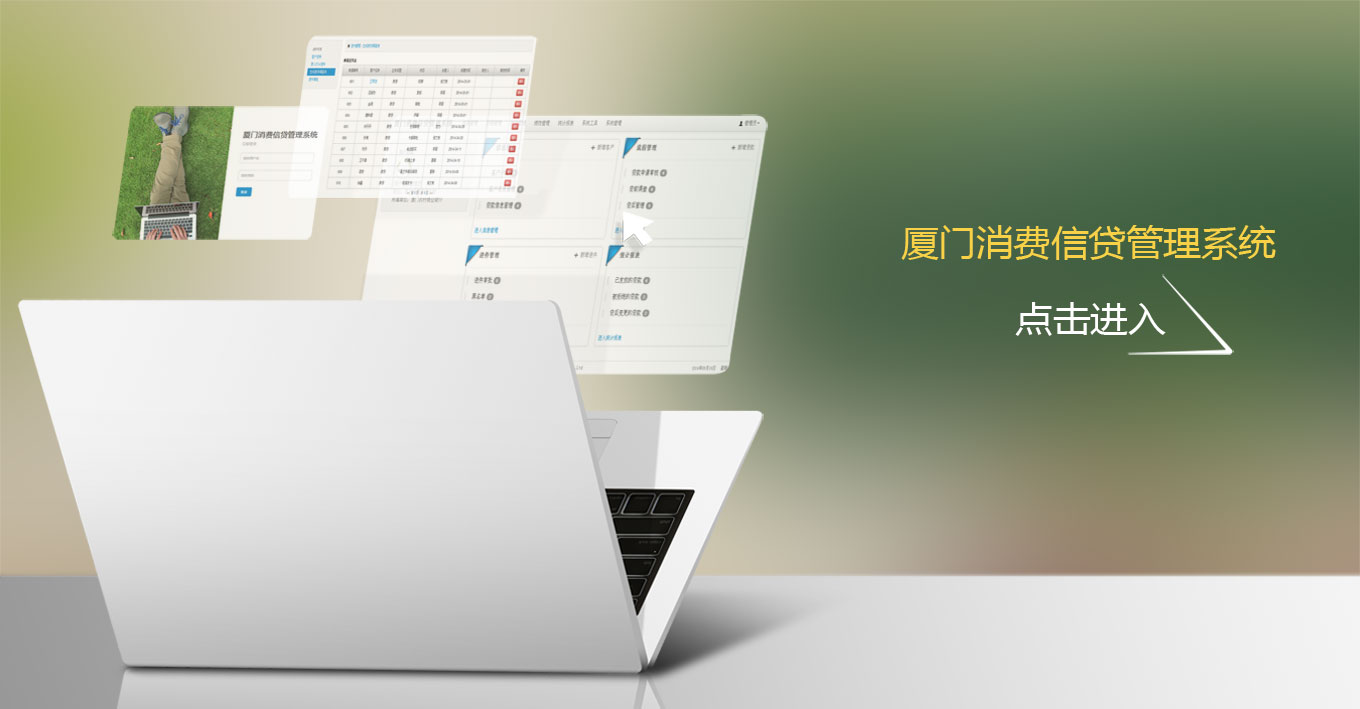
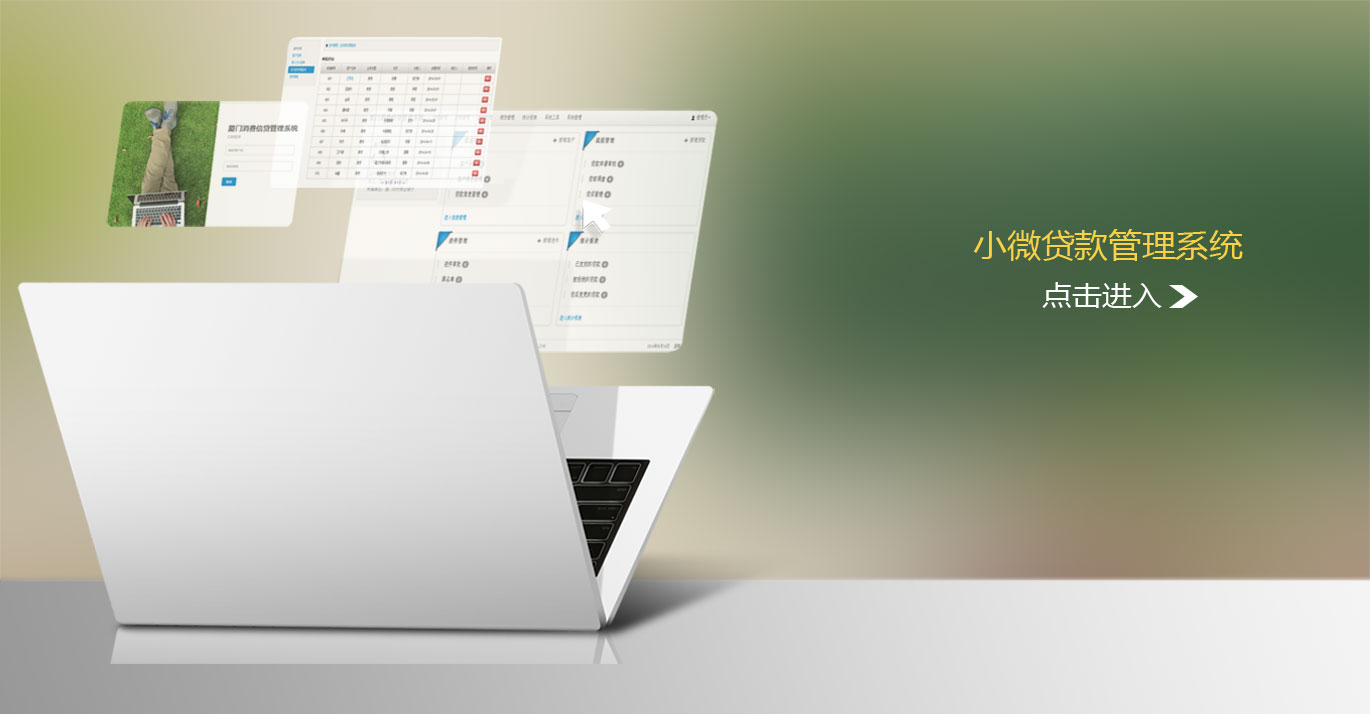
[mod]小微贷款管理系统

diff --git a/scapp/templates/welcome.html b/scapp/templates/welcome.html
@@ -2,7 +2,7 @@
 <html lang="zh-cn">
 <head>	
 	<meta charset="utf-8">
-	<title>XMCI</title>
+	<title>小微贷款管理系统</title>
 	<meta name="viewport" content="width=device-width, initial-scale=1.0">
 	<meta name="description" content="Charisma, a fully featured, responsive, HTML5, Bootstrap admin template.">
 	<meta name="author" content="Muhammad Usman">
@@ -39,7 +39,7 @@
 	<div class="navbar navbar-fixed-top">
 		<div class="navbar-inner">
 			<div class="container-fluid">				
-				<a class="brand" href="javascript:void(0);" onclick="iframe('welcome')">厦门消费信贷管理系统</a>
+				<a class="brand" href="javascript:void(0);" onclick="iframe('welcome')">小微贷款管理系统</a>
 				<div class="nav-collapse collapse">
 					<ul class="nav pull-right">
 						<li class="dropdown">
@@ -89,7 +89,7 @@
 							<span style="color:gray">职位：客户经理高级主管</span>
 						</li> 
 						<li>
-							<span style="color:gray">所属单位：厦门农村商业银行</span>
+							<span style="color:gray">所属单位：农村商业银行</span>
 						</li>             
 					</ul>
 				</div><!--/.well -->						
@@ -124,22 +124,22 @@
 					<!--****************************进件管理*************************************-->
 						<div class="tip-info">
 							<img src="../static/img/jiao.png" style="position:absolute;margin-top:-15px;margin-left:-15px;"/>
-							<span class="tip-head">&nbsp;&nbsp;&nbsp;进件管理</span>	
+							<span class="tip-head">&nbsp;&nbsp;&nbsp;绩效管理</span>	
 							<div class="pull-right">
-								<a href="Xzjj" onmouseover="hover(this)" onmouseout="away(this)">
+								<a href="Xzgs" onmouseover="hover(this)" onmouseout="away(this)">
 									<img src="../static/img/add.jpg" />
-									<span class="tip-add">新增进件</span>
+									<span class="tip-add">新增工时</span>
 								</a>
 							</div>							
 							<hr/>	
 							<blockquote>
-								<span>进件审批</span><a href="Jjsp" class="badge">6</a>
+								<span>个人薪酬</span><a href="Grxc" class="badge">4</a>
 							</blockquote>	
 							<blockquote>
-								<span>黑名单</span><a href="" class="badge">2</a>
+								<span>在岗评估</span><a href="Zgpg" class="badge">5</a>
 							</blockquote>	
 							<blockquote>
-								<span>系统核验</span><a href="" class="badge">3</a>
+								<span>晋级审核</span><a href="Jjsh" class="badge">5</a>
 							</blockquote>	
 							<!--没有任务时-->
 						<!-- 	<span class="noContent">
@@ -147,7 +147,7 @@
 								<p>当前还没有日程</p>
 							</span> -->
 							<hr/>	
-							<a href="jjgl">进入进件管理</a>
+							<a href="jxgl">进入绩效管理</a>
 						</div>	
 					</div>
 					<div class="span6">

diff --git a/scapp/templates/index.html b/scapp/templates/index.html
@@ -2,7 +2,7 @@
 <html lang="zh-cn">
 <head>	
 	<meta charset="utf-8">
-	<title>XMCI</title>
+	<title>小微贷款管理系统</title>
 	<meta name="viewport" content="width=device-width, initial-scale=1.0">
 	<meta name="description" content="Charisma, a fully featured, responsive, HTML5, Bootstrap admin template.">
 	<meta name="author" content="Muhammad Usman">
@@ -24,7 +24,7 @@
 	<div class="navbar navbar-fixed-top">
 		<div class="navbar-inner">
 			<div class="container-fluid">				
-				<a class="brand" href="javascript:void(0);" onclick="iframe('welcome')">厦门消费信贷管理系统</a>
+				<a class="brand" href="javascript:void(0);" onclick="iframe('welcome')">小微贷款管理系统</a>
 				<div class="nav-collapse collapse">
 					<ul class="nav pull-right">
 						<li class="dropdown">

diff --git a/scapp/templates/login1.html b/scapp/templates/login1.html
@@ -29,7 +29,7 @@
 		<div class="control-group">
 			<img src="../static/img/login.jpg" style="width:545px;overflow-y:hidden;float:left;position:fixed;top:-85px;"/>
 			<div style="float:left;margin-top:130px;margin-left:600px;">
-				<h2>厦门消费信贷管理系统</h2>
+				<h2>小微贷款管理系统</h2>
 				<p>立即登录</p>
 				<input type="text" placeholder="您的用户名"/><br/>
 				<input type="text" placeholder="您的密码"/><br/>
